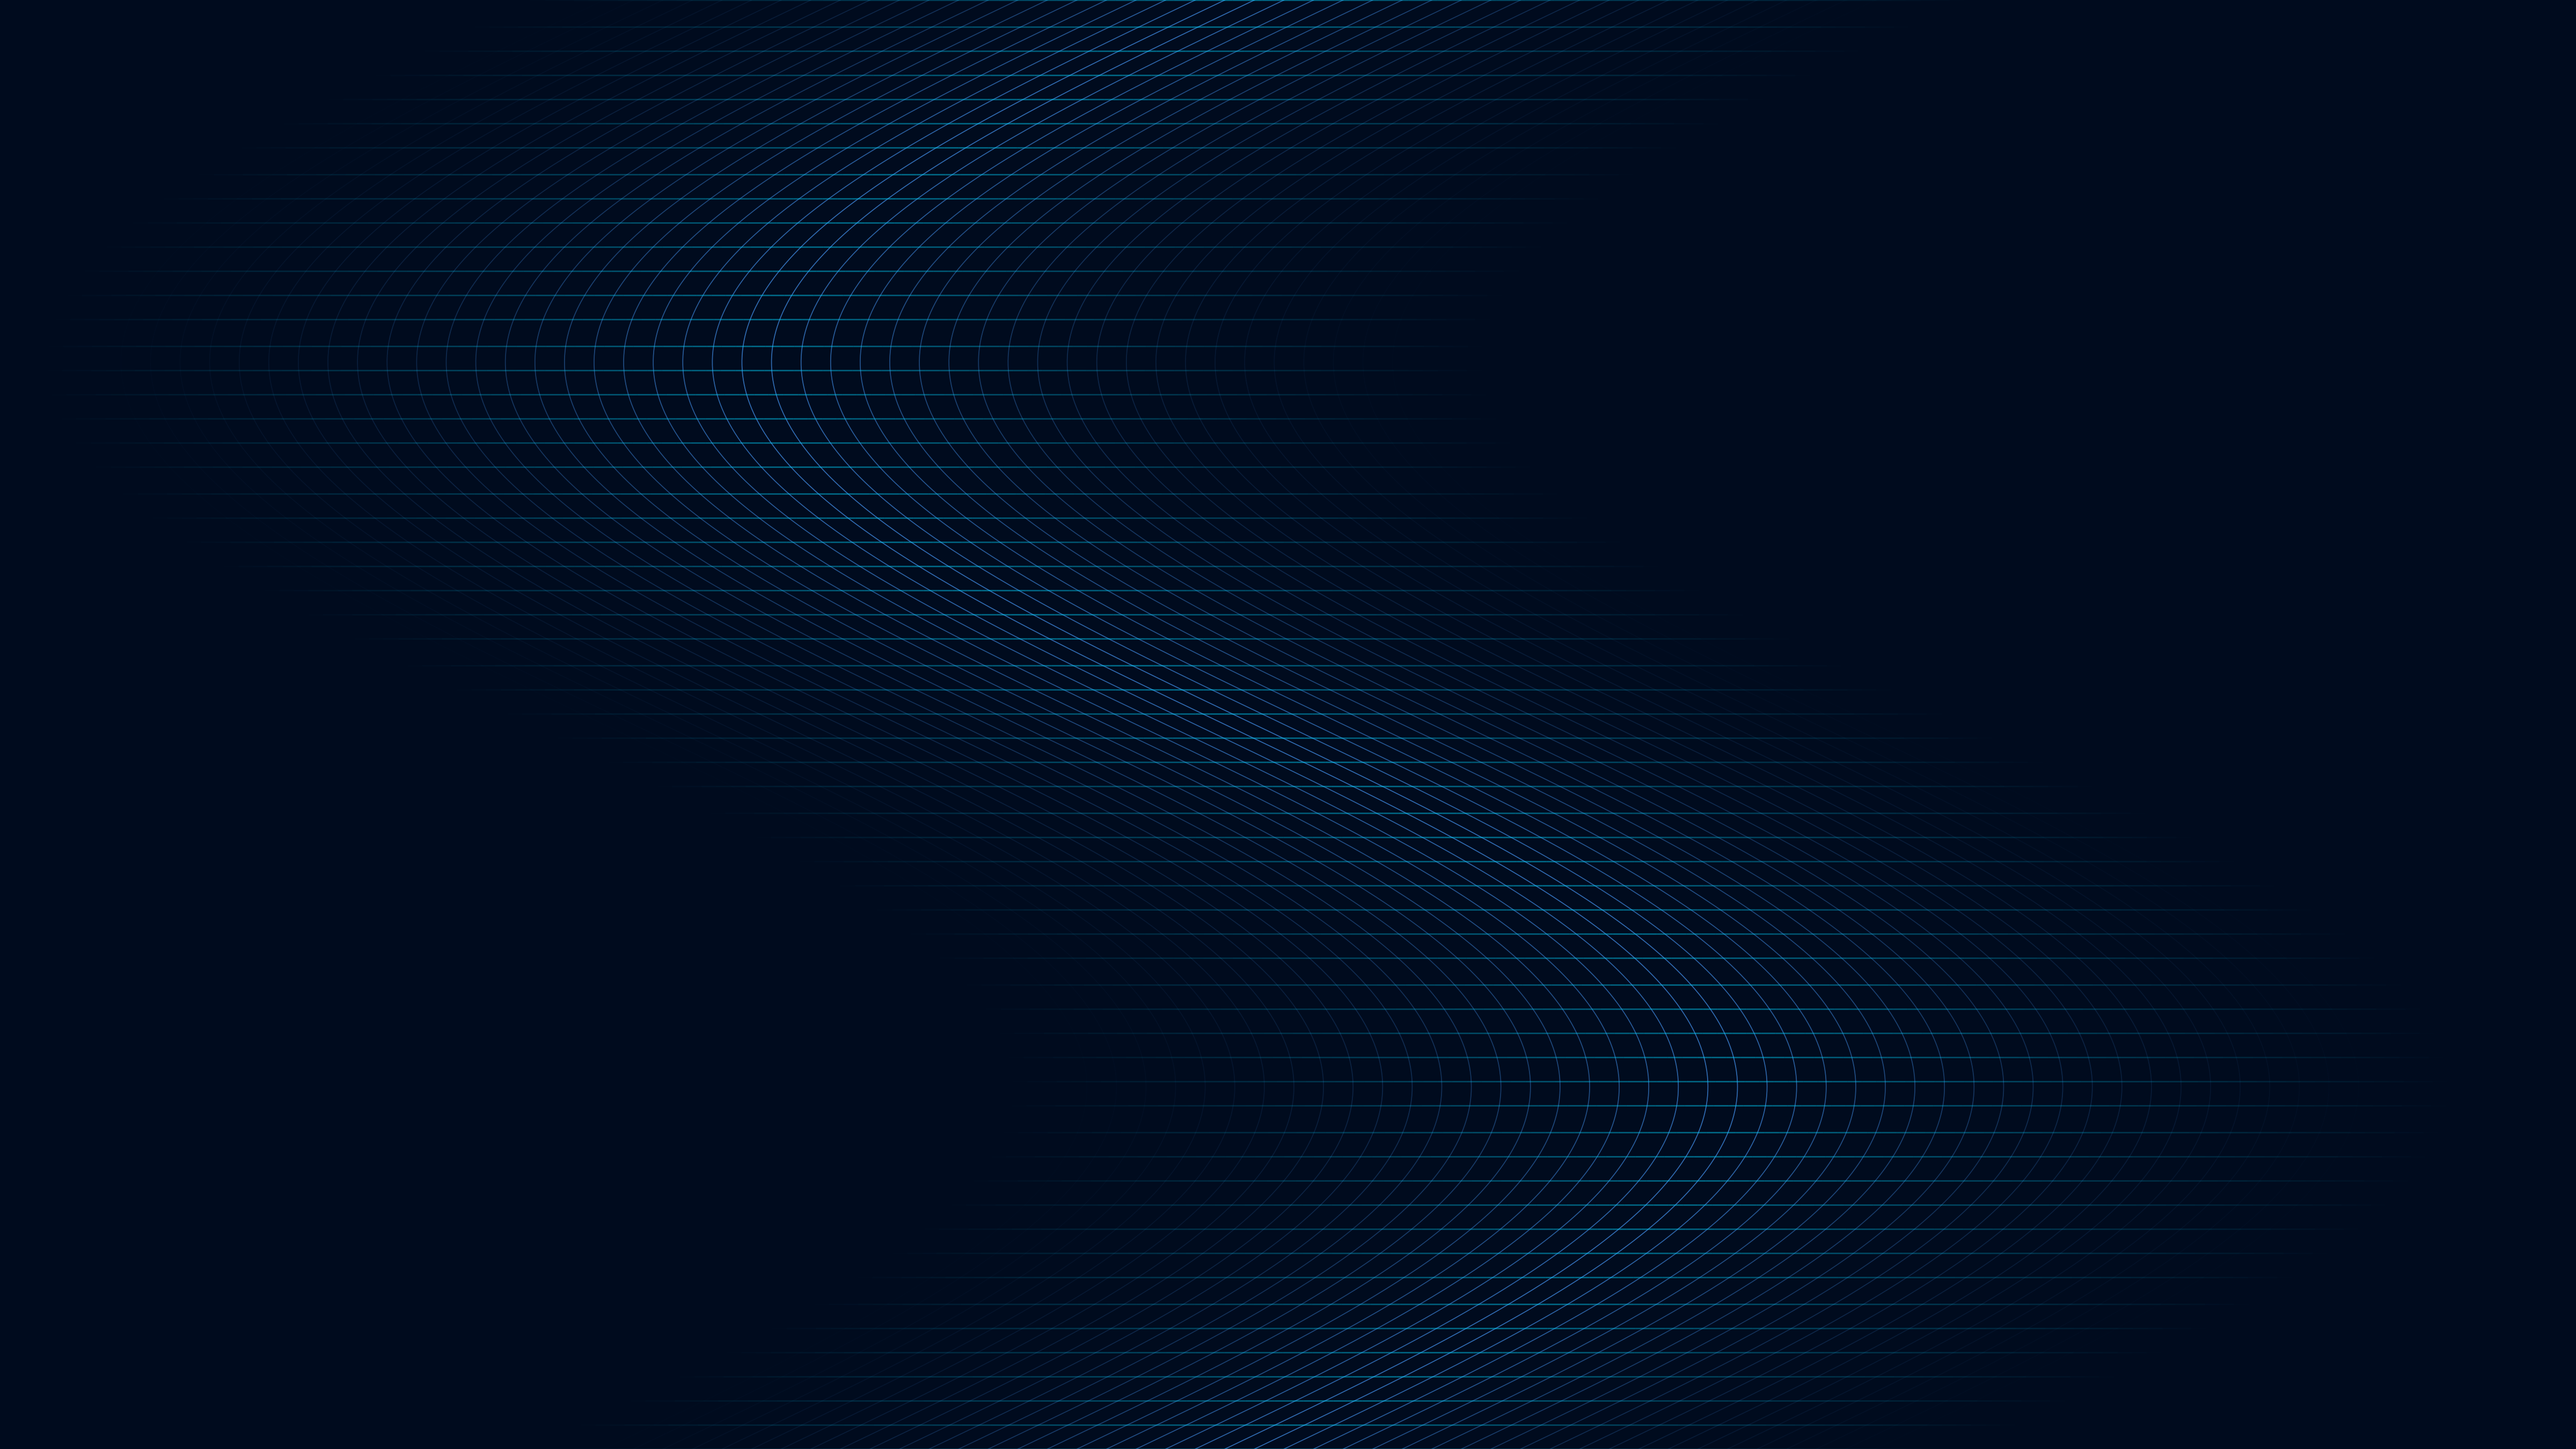
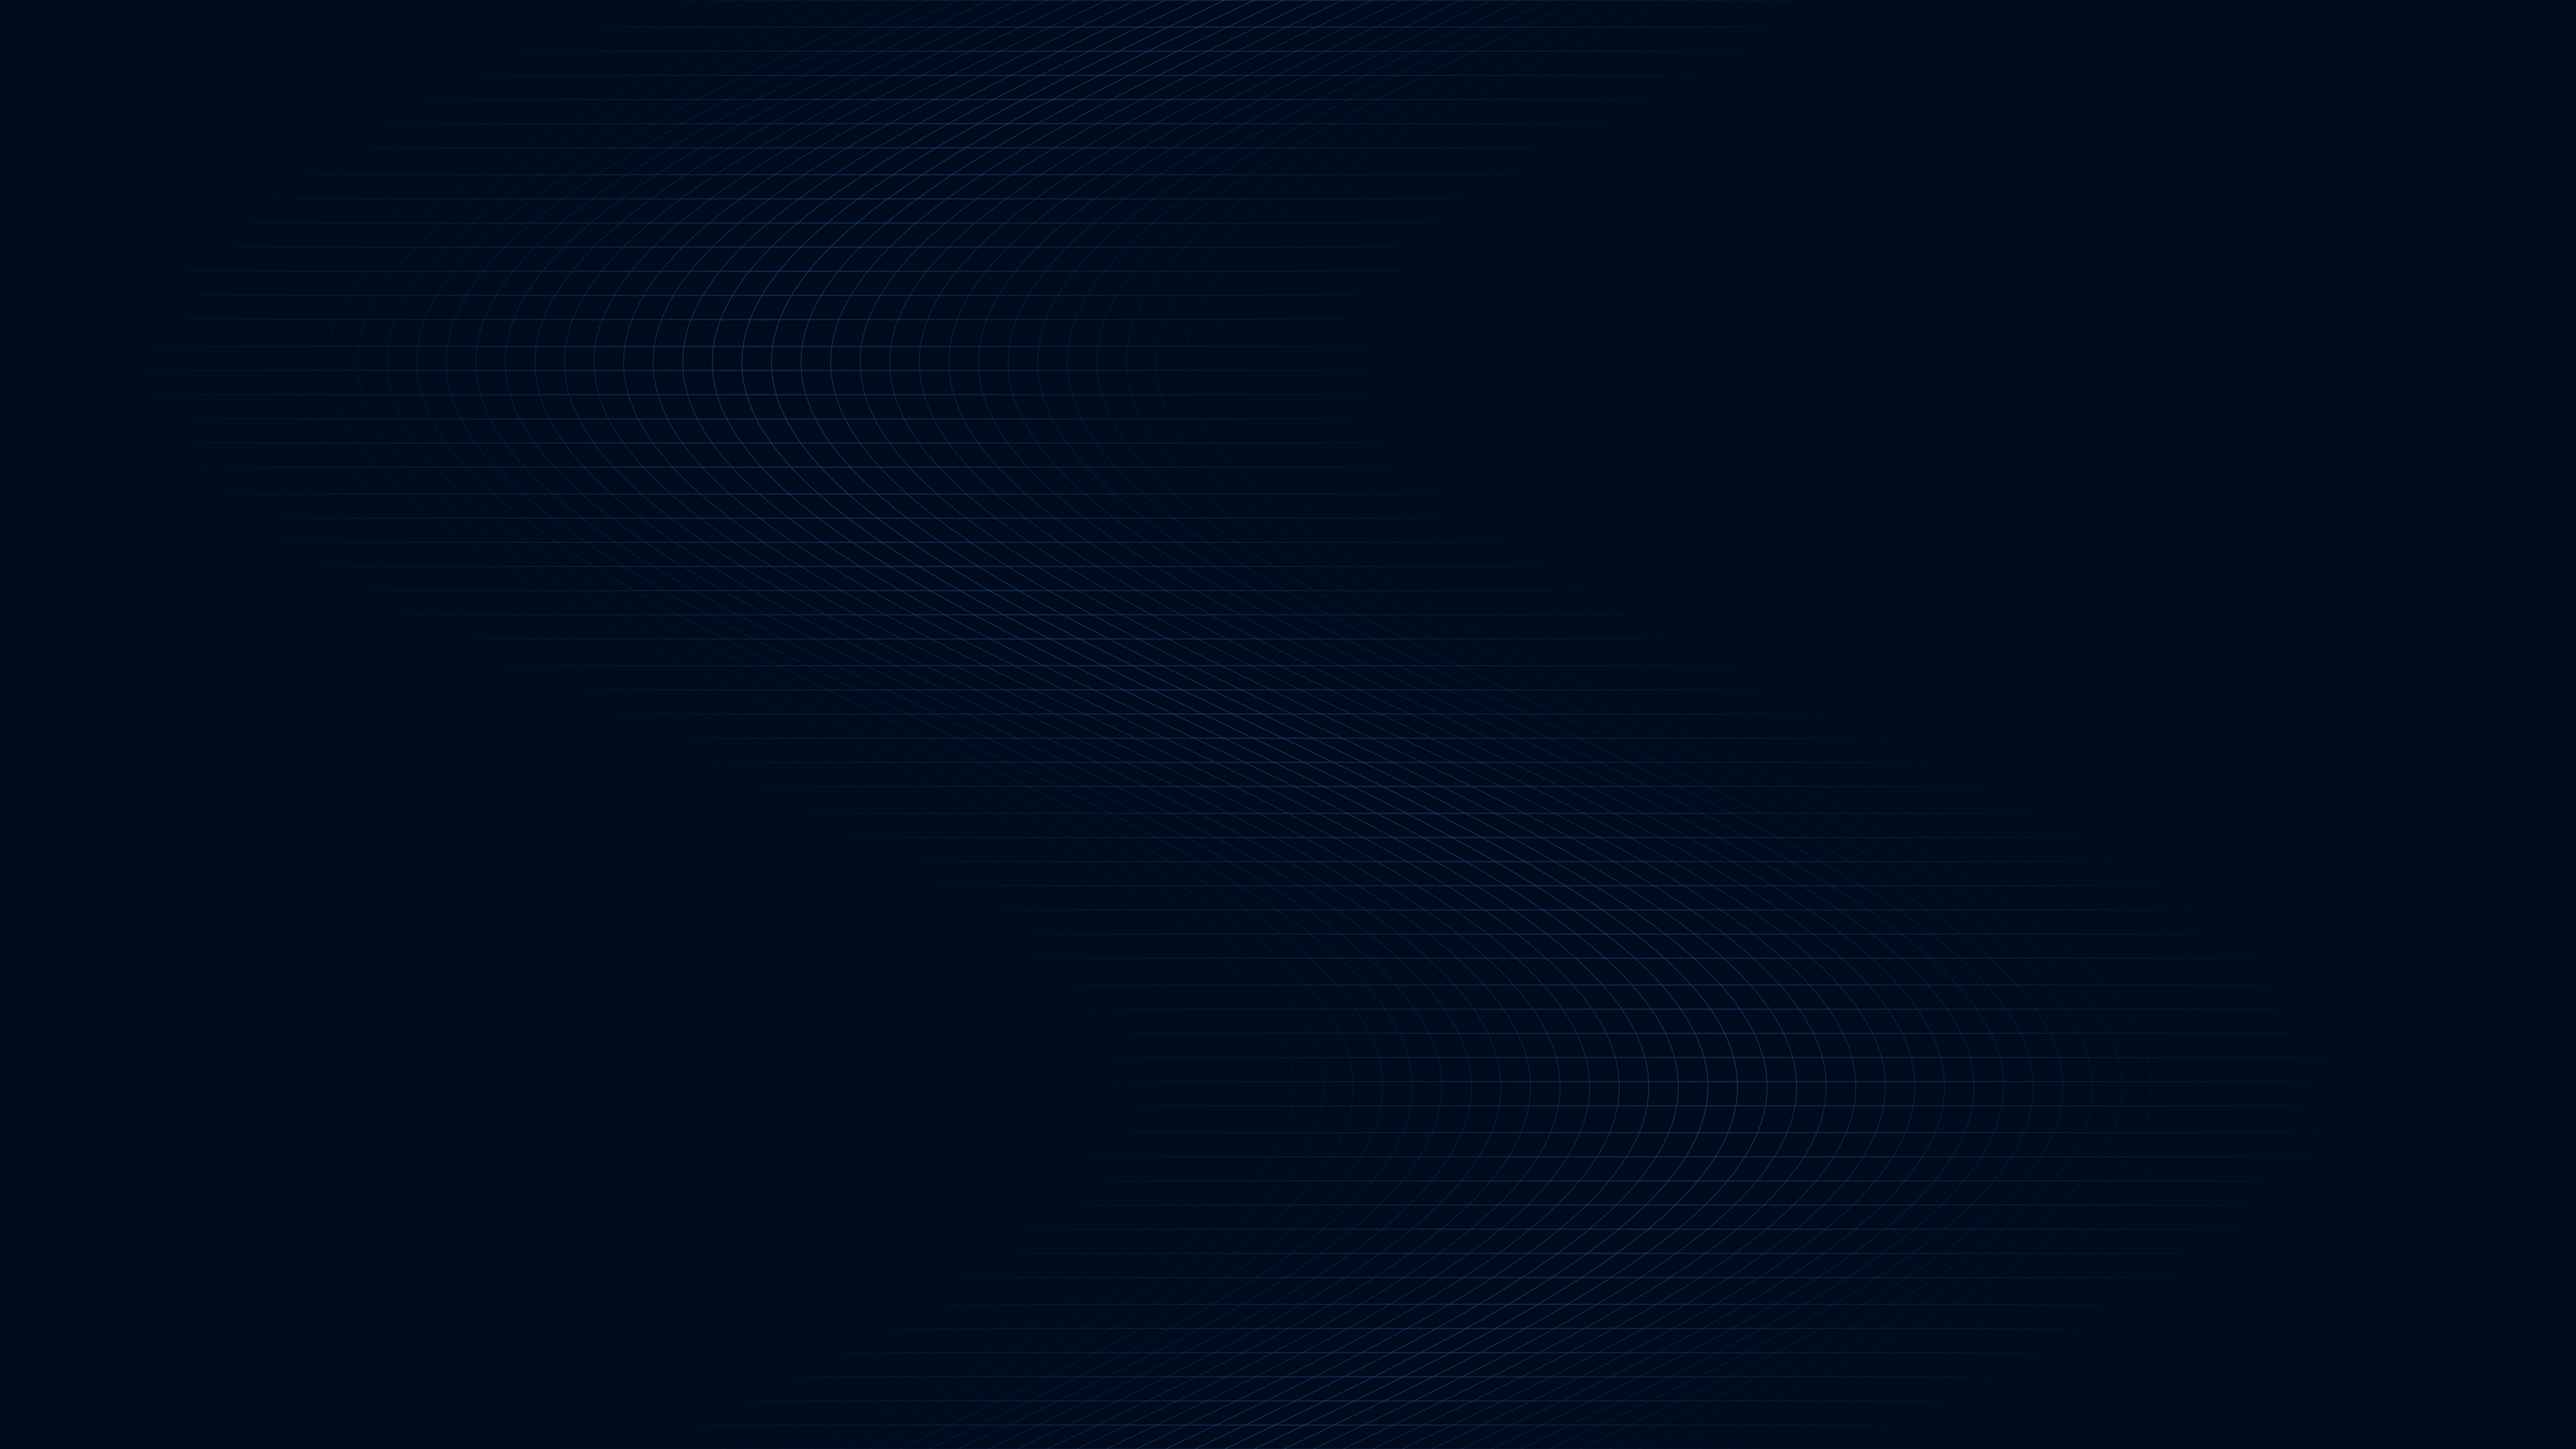
Some minor changes

diff --git a/_cv/cv-data.tex b/_cv/cv-data.tex
@@ -1,7 +1,7 @@
 % Generated by build_cv.rb. Do not edit directly.
 \newcommand{\CVName}{Rubén Izquierdo López}
 \newcommand{\CVTitle}{PhD Student in Mathematics}
-\newcommand{\CVLastUpdated}{24 September 2026}
+\newcommand{\CVLastUpdated}{28 September 2026}
 \newcommand{\CVPersonalDetails}{%
   \textbf{Location:} Madrid, Spain\\[2pt]
   \textbf{Nationality:} Spanish\\[2pt]
@@ -40,7 +40,7 @@
 \CVEntry{Excelence grant}{Comunidad de Madrid}{2020-2021, 2021-2022, 2022-2023}{Merit-based scholarship for undergrad students}
 \CVEntry{JAE Intro research grant}{Consejo Superior de Investigaciones Científicas (CSIC)}{2023}{Grant for introduction to research}
 }
-\newcommand{\CVPublications}{\begin{enumerate}[leftmargin=*,label={[\arabic*]},itemsep=2pt,topsep=0pt]\item M. de León, R. Izquierdo-López, L. Schiavone, P. Soto, ``Regularization of singular time-dependent Lagrangian systems''. Anal.Math.Phys. 16, 125 (2026). [\href{https://doi.org/10.1007/s13324-026-01261-z}{/10.1007/s13324-026-01261-z}]\item M. de León and R. Izquierdo-López, ``A description of classical field equations using extensions of graded Poisson brackets'', International Journal of Geometric Methods in Modern Physics, Accepted for publication. [\href{https://doi.org/10.1142/S0219887826502439}{10.1142/S0219887826502439}]\item M. de León, R. Izquierdo-López and X. Rivas, ``Brackets in Multicontact Geometry and Multisymplectization'', Mediterr. J. Math. 23, 81 (2026). [\href{https://doi.org/10.1007/s00009-026-03077-4}{10.1007/s00009-026-03077-4}]\item M. de León and R. Izquierdo-López, ``Graded poisson and graded dirac structures'', J. Math. Phys. 66 (2), 022901 (2025). [\href{https://doi.org/10.1063/5.0243128}{10.1063/5.0243128}]\item M. de León and R. Izquierdo-López, ``Coisotropic reduction in multisymplectic geometry'', Geometric Mechanics, 1 (3), 209–244 (2024). [\href{https://doi.org/10.1142/S2972458924500096}{10.1142/S2972458924500096}]\item M. de León and R. Izquierdo-López, ``A review on coisotropic reduction in symplectic, cosymplectic, contact and co-contact Hamiltonian systems'', J. Phys. A: Math. Theor. 57, 163001 (2024). [\href{https://doi.org/10.1088/1751-8121/ad37b2}{10.1088/1751-8121/ad37b2}]\end{enumerate}}
+\newcommand{\CVPublications}{\begin{enumerate}[leftmargin=*,label={[\arabic*]},itemsep=2pt,topsep=0pt]\item M. de León, R. Izquierdo-López, L. Schiavone, P. Soto, ``Regularization of singular time-dependent Lagrangian systems''. Anal. Math. Phys. 16, 125 (2026). [\href{https://doi.org/10.1007/s13324-026-01261-z}{/10.1007/s13324-026-01261-z}]\item M. de León and R. Izquierdo-López, ``A description of classical field equations using extensions of graded Poisson brackets'', International Journal of Geometric Methods in Modern Physics, Accepted for publication. [\href{https://doi.org/10.1142/S0219887826502439}{10.1142/S0219887826502439}]\item M. de León, R. Izquierdo-López and X. Rivas, ``Brackets in Multicontact Geometry and Multisymplectization'', Mediterr. J. Math. 23, 81 (2026). [\href{https://doi.org/10.1007/s00009-026-03077-4}{10.1007/s00009-026-03077-4}]\item M. de León and R. Izquierdo-López, ``Graded poisson and graded dirac structures'', J. Math. Phys. 66 (2), 022901 (2025). [\href{https://doi.org/10.1063/5.0243128}{10.1063/5.0243128}]\item M. de León and R. Izquierdo-López, ``Coisotropic reduction in multisymplectic geometry'', Geometric Mechanics, 1 (3), 209–244 (2024). [\href{https://doi.org/10.1142/S2972458924500096}{10.1142/S2972458924500096}]\item M. de León and R. Izquierdo-López, ``A review on coisotropic reduction in symplectic, cosymplectic, contact and co-contact Hamiltonian systems'', J. Phys. A: Math. Theor. 57, 163001 (2024). [\href{https://doi.org/10.1088/1751-8121/ad37b2}{10.1088/1751-8121/ad37b2}]\end{enumerate}}
 \newcommand{\CVPreprints}{\begin{enumerate}[leftmargin=*,label={[\arabic*]},itemsep=2pt,topsep=0pt]\item M. de León, R. Izquierdo-López, M. Lainz, ``The Spencer cohomology and integrability of multisymplectic structures''. [\href{https://arxiv.org/abs/2607.05267}{arXiv:2607.05267}]\item M. de León, X. Gràcia, R. Izquierdo-López, A. Martínez-Muñoz, X. Rivas, ``Poisson and Jacobi structures from 2-covariant tensors''. [\href{https://arxiv.org/abs/2606.20030}{arXiv:2606.20030}]\item M. de León, R. Izquierdo-López, L. Schiavone, P. Soto, ``A zoo of coisotropic embeddings''. [\href{https://doi.org/10.48550/arXiv.2509.19039}{arXiv:2509.19039}]\end{enumerate}}
 \newcommand{\CVInvitedConferenceTalks}{%
 \CVTalk{The Jacobi brackets of dissipative field theories}{\href{https://sites.google.com/view/nacosy2026/general-information}{2nd International Workshop “New Advances in Contact and Symplectic Hamiltonian Dynamics”}}{13-17 July, 2026}

diff --git a/Background/background.py b/Background/background.py
@@ -1,7 +1,6 @@
 import numpy as np
 import matplotlib.pyplot as plt
 from matplotlib.collections import LineCollection
-from matplotlib.colors import LinearSegmentedColormap
 
 def generate_thicker_thinner_serpent(output_file="serpent_thick_thin.png"):
     fig, ax = plt.subplots(figsize=(16, 9), dpi=300)
@@ -27,17 +26,9 @@ def generate_thicker_thinner_serpent(output_file="serpent_thick_thin.png"):
         x_line = x_spine + off
         side_shading = (1.0 - (abs(off) / serpent_width)) ** 2.0 
         # Thinner lines
-        ax.plot(x_line, y_spine, color='#4a9eff', alpha=side_shading * 0.7, lw=0.4, zorder=1)
+        ax.plot(x_line, y_spine, color="#1D4672", alpha=side_shading * 0.7, lw=0.4, zorder=1)
 
     # --- 2. Transversal Lines (The Ribs) ---
-    cmap_data = {
-        'red':   [[0.0, 0.0, 0.0], [0.5, 0.0, 0.0], [1.0, 0.0, 0.0]],
-        'green': [[0.0, 0.83, 0.83], [0.5, 0.83, 0.83], [1.0, 0.83, 0.83]],
-        'blue':  [[0.0, 1.0, 1.0], [0.5, 1.0, 1.0], [1.0, 1.0, 1.0]],
-        'alpha': [[0.0, 0.0, 0.0], [0.5, 0.5, 0.5], [1.0, 0.0, 0.0]] 
-    }
-    rib_cmap = LinearSegmentedColormap('rib_fade', cmap_data)
-
     rib_indices = np.linspace(0, points_per_line - 1, n_transversal, dtype=int)
     for idx in rib_indices:
         y_val = y_spine[idx]
@@ -48,9 +39,11 @@ def generate_thicker_thinner_serpent(output_file="serpent_thick_thin.png"):
         
         points = np.array([x_rib, y_rib]).T.reshape(-1, 1, 2)
         segments = np.concatenate([points[:-1], points[1:]], axis=1)
-        
-        lc = LineCollection(segments, cmap=rib_cmap, linewidth=0.6, zorder=2) # Thinner ribs
-        lc.set_array(np.linspace(0, 1, len(x_rib)))
+
+        rib_positions = np.linspace(0.0, 1.0, len(segments))
+        rib_colors = np.tile([29 / 255, 70 / 255, 114 / 255, 1.0], (len(segments), 1))
+        rib_colors[:, 3] = 0.5 * (1.0 - np.abs(2.0 * rib_positions - 1.0))
+        lc = LineCollection(segments, colors=rib_colors, linewidth=0.6, zorder=2) # Thinner ribs
         ax.add_collection(lc)
 
     # Styling
